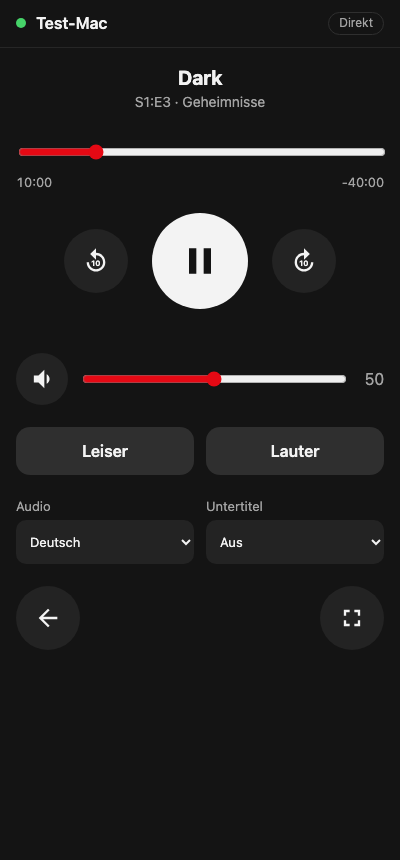
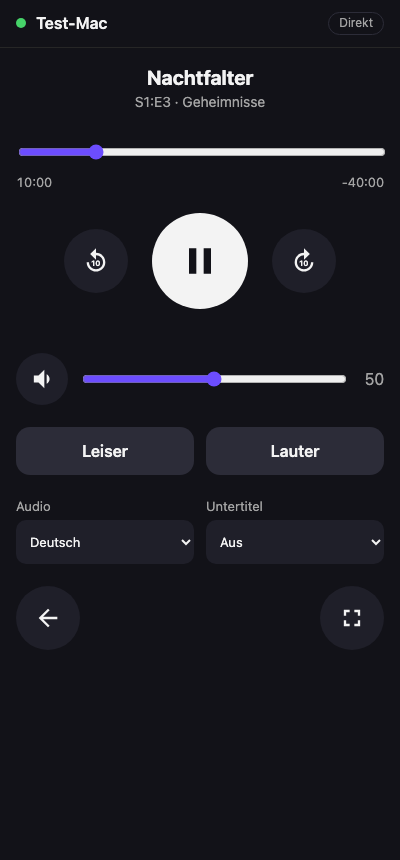
Rename to Couch Remote, own colors, privacy page, license notices, version 2.2.5
Preparation for store publishing without trademark trouble:
- Name "Couch Remote" (no "Netflix" in the product name) and a
  "not affiliated with Netflix" notice in popup, app, README, LICENSE.
- Own violet accent and a bluish background instead of Netflix red and
  black; icons regenerated. Offline dots use a separate danger red.
- Privacy page (remote/public/privacy.html, German and English) listing
  the public servers involved; linked from popup and app.
- Every build ships THIRD_PARTY_LICENSES.txt for the bundled libraries.
- LICENSE keeps the original notice and adds the current copyright.
- The fake Netflix page and screenshots use invented titles.

Changed region(s): [[0.36, 0.0605, 0.63, 0.1209], [0.21, 0.4233, 0.57, 0.4535], [0.03, 0.1512, 0.27, 0.1814]]

diff --git a/remote/public/privacy.html b/remote/public/privacy.html
@@ -1,0 +1,118 @@
+<!doctype html>
+<html lang="de">
+<head>
+    <meta charset="utf-8">
+    <meta name="viewport" content="width=device-width, initial-scale=1">
+    <title>Couch Remote – Datenschutz</title>
+    <meta name="theme-color" content="#121218">
+    <style>
+        :root { color-scheme: dark; --bg: #121218; --fg: #f3f3f3; --muted: #a3a3a3; --accent: #6c4dff; --line: #2c2c38; }
+        body { margin: 0; background: var(--bg); color: var(--fg); font: 16px/1.6 system-ui, -apple-system, 'Segoe UI', sans-serif; }
+        main { max-width: 720px; margin: 0 auto; padding: 24px 16px 48px; }
+        h1 { font-size: 28px; margin: 0 0 4px; }
+        h2 { font-size: 20px; margin: 32px 0 8px; }
+        h3 { font-size: 16px; margin: 20px 0 4px; }
+        p, li { color: #d8d8e0; }
+        .muted { color: var(--muted); font-size: 14px; }
+        a { color: #a896ff; }
+        table { width: 100%; border-collapse: collapse; font-size: 14px; }
+        th, td { text-align: left; vertical-align: top; padding: 8px; border-bottom: 1px solid var(--line); }
+        th { color: var(--muted); font-weight: 600; }
+        hr { border: 0; border-top: 1px solid var(--line); margin: 40px 0; }
+        nav a { margin-right: 16px; }
+    </style>
+</head>
+<body>
+<main>
+    <nav class="muted"><a href="#de">Deutsch</a><a href="#en">English</a></nav>
+
+    <section id="de" lang="de">
+        <h1>Datenschutz</h1>
+        <p class="muted">Couch Remote (Chrome-Extension und Handy-App) · Stand: September 2026</p>
+
+        <p>Couch Remote macht das Handy zur Fernbedienung für Netflix im Browser auf PC oder Mac. Es gibt
+        <strong>kein Konto, keinen eigenen Server, keine Werbung und kein Tracking</strong>. Der Entwickler
+        erhält keine Daten.</p>
+
+        <h2>Welche Daten verarbeitet werden</h2>
+        <h3>In der Extension (am PC)</h3>
+        <ul>
+            <li>Sie liest ausschließlich auf <code>www.netflix.com</code>, was dort angezeigt wird: Titel, Bilder-Adressen,
+            Fortschritt, Profilnamen, Wiedergabestatus (Position, Lautstärke, Ton- und Untertitelspur).</li>
+            <li>Diese Informationen gehen nur an das gekoppelte Handy – direkt oder Ende-zu-Ende verschlüsselt über
+            einen Relay (siehe unten). Sie werden nicht gespeichert und an niemanden sonst übermittelt.</li>
+            <li>Lokal gespeichert werden nur die Einstellungen: eine zufällige Geräte-ID, der Kopplungsschlüssel,
+            der Name des Rechners und gegebenenfalls eigene Serveradressen.</li>
+        </ul>
+        <h3>In der Handy-App</h3>
+        <ul>
+            <li>Lokal im Browser gespeichert werden die Kopplungen (Geräte-ID, Schlüssel, Rechnername, Serveradressen).</li>
+            <li>Der Kopplungsschlüssel steht im <code>#</code>-Teil des QR-Code-Links; dieser Teil wird von Browsern nie
+            an einen Webserver gesendet.</li>
+            <li>Bilder von Titeln lädt das Handy direkt von Netflix. Dabei gelten die
+            <a href="https://help.netflix.com/legal/privacy">Datenschutzbestimmungen von Netflix</a>.</li>
+        </ul>
+
+        <h2>Beteiligte Dienste</h2>
+        <p>Damit Handy und PC sich ohne eigenen Server finden, nutzt Couch Remote öffentliche Dienste. Diese sehen
+        technisch bedingt die IP-Adressen der Geräte, aber keine Inhalte:</p>
+        <table>
+            <tr><th>Dienst</th><th>Zweck</th><th>Was er sieht</th></tr>
+            <tr><td>PeerJS-Server (<code>0.peerjs.com</code>)</td><td>Verbindungsaufbau zwischen Handy und PC</td><td>IP-Adressen, zufällige Geräte-IDs, technische Verbindungsdaten</td></tr>
+            <tr><td>STUN-Server von Google (<code>stun.l.google.com</code>)</td><td>Ermitteln der öffentlichen Adresse für die Direktverbindung</td><td>IP-Adressen</td></tr>
+            <tr><td>TURN-Server von PeerJS (<code>*.turn.peerjs.com</code>)</td><td>Weiterleitung, falls keine Direktverbindung möglich ist</td><td>IP-Adressen; die Daten sind per WebRTC (DTLS) verschlüsselt</td></tr>
+            <tr><td>MQTT-Relay HiveMQ (<code>broker.hivemq.com</code>)</td><td>Ausweichweg in Netzen, die Direktverbindungen sperren</td><td>IP-Adressen und verschlüsselte Nachrichten (AES-GCM mit dem Kopplungsschlüssel); keine Inhalte</td></tr>
+            <tr><td>GitHub Pages</td><td>Ausliefern der Handy-App</td><td>IP-Adresse und übliche Server-Protokolldaten, siehe <a href="https://docs.github.com/de/site-policy/privacy-policies/github-general-privacy-statement">Datenschutzerklärung von GitHub</a></td></tr>
+        </table>
+        <p>Alle Server lassen sich in der Extension unter „Erweitert“ durch eigene ersetzen.</p>
+
+        <h2>Rechtsgrundlage und Rechte</h2>
+        <p>Die Verarbeitung dient allein der vom Nutzer gewünschten Funktion (Art. 6 Abs. 1 lit. b bzw. f DSGVO).
+        Da der Entwickler keine personenbezogenen Daten erhält, kann er dazu auch keine Auskunft geben; für die oben
+        genannten Dienste gelten deren Datenschutzbestimmungen. Alle lokal gespeicherten Daten verschwinden, wenn die
+        Extension entfernt bzw. die Website-Daten der Handy-App gelöscht werden.</p>
+
+        <h2>Kontakt</h2>
+        <p>Fragen und Hinweise bitte als Issue auf
+        <a href="https://github.com/MacBuchi/netflix-remote/issues">github.com/MacBuchi/netflix-remote</a>.</p>
+
+        <p class="muted">Couch Remote ist ein unabhängiges Open-Source-Projekt und nicht mit Netflix, Inc. verbunden,
+        von Netflix unterstützt oder beauftragt. Netflix ist eine Marke von Netflix, Inc.</p>
+    </section>
+
+    <hr>
+
+    <section id="en" lang="en">
+        <h1>Privacy</h1>
+        <p class="muted">Couch Remote (Chrome extension and phone app) · Last updated: September 2026</p>
+
+        <p>Couch Remote turns a phone into a remote control for Netflix in a desktop browser. There is
+        <strong>no account, no own server, no ads and no tracking</strong>. The developer receives no data.</p>
+
+        <h2>Data processed</h2>
+        <ul>
+            <li>The extension reads only what <code>www.netflix.com</code> displays (titles, image URLs, progress,
+            profile names, playback state) and sends it only to the paired phone, directly or end-to-end encrypted
+            through a relay. It is not stored or shared with anyone else.</li>
+            <li>Stored locally: a random device ID, the pairing key, the computer's name and optional custom server
+            addresses (extension); the pairings (phone app). The pairing key travels in the <code>#</code> part of the
+            QR code link, which browsers never send to a web server.</li>
+            <li>The phone loads title images directly from Netflix; Netflix's privacy statement applies.</li>
+        </ul>
+
+        <h2>Third-party services</h2>
+        <p>To connect phone and computer without an own server, Couch Remote uses public services that technically
+        see the devices' IP addresses but no content: the PeerJS server (<code>0.peerjs.com</code>, connection setup),
+        Google's STUN server (address discovery), PeerJS TURN servers (fallback forwarding, WebRTC-encrypted), the HiveMQ
+        public MQTT broker (fallback relay, messages AES-GCM encrypted with the pairing key) and GitHub Pages (hosting
+        the phone app). All servers can be replaced under “Erweitert” (advanced) in the extension.</p>
+
+        <h2>Contact</h2>
+        <p>Please open an issue on <a href="https://github.com/MacBuchi/netflix-remote/issues">github.com/MacBuchi/netflix-remote</a>.</p>
+
+        <p class="muted">Couch Remote is an independent open-source project and is not affiliated with, endorsed or
+        sponsored by Netflix, Inc. Netflix is a trademark of Netflix, Inc.</p>
+    </section>
+</main>
+</body>
+</html>

diff --git a/tests/e2e/fake-netflix.html b/tests/e2e/fake-netflix.html
@@ -15,7 +15,7 @@
         if (path.startsWith('/watch/')) {
             document.body.innerHTML = `
                 <video></video>
-                <div data-uia="video-title"><h4>Dark</h4><span>S1:E3</span><span>Geheimnisse</span></div>`;
+                <div data-uia="video-title"><h4>Nachtfalter</h4><span>S1:E3</span><span>Geheimnisse</span></div>`;
         } else if (path.startsWith('/browse') && !sessionStorage.getItem('profile') && !params.has('jbv')) {
             document.body.innerHTML = `<ul class="choose-profile">
                 ${['Alex', 'Kinder'].map((n) => `<li><a class="profile-link" data-uia="profile-link" href="#"><img src="${img(n)}"><span class="profile-name">${n}</span></a></li>`).join('')}
@@ -47,27 +47,27 @@
                     header +
                     // Billboard: full-width recommendation with title logo; Netflix plays its trailer here.
                     `<div class="billboard-row"><div class="billboard billboard-pane">
-                        <div class="hero-image-wrapper"><img class="hero static-image" src="${img('The Crown', '80025678')}&hero=1"></div>
-                        <div class="billboard-title"><img class="title-logo" alt="The Crown" src="${img('The Crown', '80025678')}&logo=1"></div>
-                        <div class="billboard-description"><div class="synopsis">Die Regentschaft von Königin Elisabeth II. – Intrigen, Liebe und Politik.</div></div>
+                        <div class="hero-image-wrapper"><img class="hero static-image" src="${img('Hafenlichter', '80025678')}&hero=1"></div>
+                        <div class="billboard-title"><img class="title-logo" alt="Hafenlichter" src="${img('Hafenlichter', '80025678')}&logo=1"></div>
+                        <div class="billboard-description"><div class="synopsis">Eine Hafenstadt, drei Familien und ein Geheimnis, das alles verändert.</div></div>
                         <div class="billboard-links"><a class="playLink" href="/watch/80025678?trackId=1"><button data-uia="play-button">Abspielen</button></a><button data-uia="billboard-more-info">Weitere Infos</button></div>
                     </div></div>` +
-                    row('Weiterschauen', [['80100172', 'Dark', 35], ['80057281', 'Stranger Things', 70]]) +
-                    row(path.includes('genre') ? 'Serien-Tipps' : 'Derzeit beliebt', [['81040344', 'Squid Game']]) +
+                    row('Weiterschauen', [['80100172', 'Nachtfalter', 35], ['80057281', 'Sternenstaub', 70]]) +
+                    row(path.includes('genre') ? 'Serien-Tipps' : 'Derzeit beliebt', [['81040344', 'Rotes Licht']]) +
                     [1, 2, 3, 4, 5].map((r) => row(`Reihe ${r}`, filler(r))).join('');
                 if (params.has('jbv')) {
                     document.body.insertAdjacentHTML('beforeend', `
                         <div class="previewModal--container detail-modal" data-uia="modal-motion-container-DETAIL_MODAL">
-                            <img class="previewModal--player-titleTreatment-logo" alt="Dark" src="${img('Dark')}">
+                            <img class="previewModal--player-titleTreatment-logo" alt="Nachtfalter" src="${img('Nachtfalter')}">
                             <a data-uia="play-button" href="/watch/${params.get('jbv')}">Abspielen</a>
-                            <p class="preview-modal-synopsis">Ein Kind verschwindet.</p>
+                            <p class="preview-modal-synopsis">Im Wald verschwindet ein Kind.</p>
                             <button data-uia="dropdown-toggle">Staffel 1</button>
                             ${['Geheimnisse', 'Lügen', 'Vergangenheit'].map((t, i) => `
                                 <div class="titleCardList--container episode-item" data-uia="titleCard--container">
                                     <a href="/watch/9000${i + 1}"><img src="${img('Folge ' + (i + 1))}"></a>
                                     <div class="titleCard-title_index">${i + 1}</div>
                                     <div class="titleCard-title_text">${t}</div>
-                                    <p class="titleCard-synopsis">Folge ${i + 1} von Dark.</p>
+                                    <p class="titleCard-synopsis">Folge ${i + 1} von Nachtfalter.</p>
                                 </div>`).join('')}
                         </div>`);
                 }

diff --git a/extension/static/popup.html b/extension/static/popup.html
@@ -4,13 +4,13 @@
     <meta charset="utf-8">
     <title>Couch Remote</title>
     <style>
-        :root { color-scheme: dark; --bg: #141414; --fg: #f3f3f3; --muted: #9a9a9a; --accent: #e50914; --line: #2c2c2c; }
+        :root { color-scheme: dark; --bg: #121218; --fg: #f3f3f3; --muted: #9a9a9a; --accent: #6c4dff; --danger: #e5484d; --line: #2c2c2c; }
         * { box-sizing: border-box; }
         body { margin: 0; width: 320px; padding: 16px; background: var(--bg); color: var(--fg); font: 14px/1.4 system-ui, sans-serif; }
         h1 { font-size: 16px; margin: 0 0 12px; display: flex; align-items: center; gap: 8px; }
         .dot { width: 8px; height: 8px; border-radius: 50%; background: var(--muted); }
         .dot.online { background: #46d369; }
-        .dot.offline { background: var(--accent); }
+        .dot.offline { background: var(--danger); }
         #qr { display: block; margin: 0 auto 8px; background: #fff; border-radius: 8px; padding: 8px; }
         p { margin: 8px 0; color: var(--muted); }
         label { display: block; margin: 12px 0 4px; color: var(--muted); font-size: 12px; }
@@ -22,6 +22,8 @@
         summary { cursor: pointer; color: var(--muted); }
         #devices { color: var(--fg); }
         .small { font-size: 12px; }
+        .legal { margin-top: 16px; color: var(--muted); }
+        .legal a { color: #a896ff; }
     </style>
 </head>
 <body>
@@ -50,6 +52,10 @@
         <input id="relay" placeholder="wss://broker.hivemq.com:8884/mqtt">
         <div class="row"><button id="save" class="primary">Speichern</button></div>
     </details>
+    <p class="small legal">
+        <a href="https://macbuchi.github.io/netflix-remote/privacy.html" target="_blank" rel="noopener">Datenschutz</a> ·
+        Unabhängiges Projekt, nicht mit Netflix verbunden.
+    </p>
     <script src="popup.js"></script>
 </body>
 </html>

diff --git a/remote/src/style.css b/remote/src/style.css
@@ -1,11 +1,12 @@
 :root {
     color-scheme: dark;
-    --bg: #141414;
-    --surface: #232323;
-    --surface-2: #2f2f2f;
+    --bg: #121218;
+    --surface: #1f1f29;
+    --surface-2: #2c2c38;
     --fg: #f3f3f3;
     --muted: #a3a3a3;
-    --accent: #e50914;
+    --accent: #6c4dff;
+    --danger: #e5484d;
     --ok: #46d369;
     --warn: #f5a623;
     --radius: 14px;
@@ -37,7 +38,7 @@ header select { background: transparent; color: var(--fg); border: 0; font: inhe
 
 .dot { width: 10px; height: 10px; border-radius: 50%; background: var(--warn); flex: none; }
 .dot.connected { background: var(--ok); }
-.dot.pc-offline, .dot.blocked, .dot.offline, .dot.auth-failed { background: var(--accent); }
+.dot.pc-offline, .dot.blocked, .dot.offline, .dot.auth-failed { background: var(--danger); }
 
 main { flex: 1; display: flex; flex-direction: column; padding: 16px; padding-bottom: max(16px, env(safe-area-inset-bottom)); }
 .center { flex: 1; display: flex; flex-direction: column; align-items: center; justify-content: center; text-align: center; gap: 12px; }
@@ -45,6 +46,8 @@ h1 { margin: 0 0 8px; font-size: 28px; }
 h2 { margin: 0; font-size: 20px; }
 p { margin: 0; }
 .muted { color: var(--muted); font-size: 14px; }
+.legal { font-size: 12px; margin-top: 24px; }
+.legal a { color: #a896ff; }
 
 .steps { text-align: left; max-width: 420px; padding-left: 20px; display: grid; gap: 10px; }
 

diff --git a/remote/src/main.tsx b/remote/src/main.tsx
@@ -173,11 +173,15 @@ function Onboarding() {
             <main class="center">
                 <h1>Couch Remote</h1>
                 <ol class="steps">
-                    <li>Extension „Couch Remote für Netflix“ in Chrome auf dem PC/Mac installieren.</li>
+                    <li>Extension „Couch Remote“ in Chrome auf dem PC/Mac installieren.</li>
                     <li>In Chrome auf das Extension-Symbol klicken – ein QR-Code erscheint.</li>
                     <li>QR-Code mit der Handy-Kamera scannen. Fertig – ab dann verbindet sich diese App automatisch.</li>
                 </ol>
                 <p class="muted">Tipp: Im Browser-Menü „Zum Startbildschirm hinzufügen“ wählen, dann startet die Fernbedienung wie eine App.</p>
+                <p class="muted legal">
+                    <a href={`${import.meta.env.BASE_URL}privacy.html`}>Datenschutz</a> · Unabhängiges Projekt, nicht mit Netflix
+                    verbunden.
+                </p>
             </main>
         </div>
     );

diff --git a/remote/index.html b/remote/index.html
@@ -3,8 +3,8 @@
 <head>
     <meta charset="utf-8">
     <meta name="viewport" content="width=device-width, initial-scale=1, viewport-fit=cover">
-    <meta name="theme-color" content="#141414">
-    <meta name="description" content="Fernbedienung für Netflix im Chrome auf PC/Mac">
+    <meta name="theme-color" content="#121218">
+    <meta name="description" content="Das Handy als Fernbedienung für Streaming im Chrome auf PC/Mac. Funktioniert mit Netflix; nicht mit Netflix verbunden.">
     <title>Couch Remote</title>
     <link rel="manifest" href="./manifest.webmanifest">
     <link rel="icon" href="./icon-192.png">

diff --git a/README.md b/README.md
@@ -1,8 +1,11 @@
-# Couch Remote für Netflix
+# Couch Remote
 
 Netflix läuft in Chrome auf PC oder Mac, das Android-Handy ist die Fernbedienung – für den Player
 und für die Auswahl von Filmen und Serien. Nur eine Chrome-Extension und eine Web-App, kein Konto,
 kein eigener Server.
+
+> Couch Remote ist ein unabhängiges Open-Source-Projekt und nicht mit Netflix, Inc. verbunden,
+> von Netflix unterstützt oder beauftragt. Netflix ist eine Marke von Netflix, Inc.
 
 <p align="center">
   <img src="docs/img/remote-catalog.png" width="240" alt="Film-Browser auf dem Handy: Reihen mit Bildern und Fortschritt, aktiver Bereich rot markiert">
@@ -158,6 +161,17 @@ mit angepasst. Für die Screenshots zeichnet der Test Platzhalter-Poster statt d
 - **Release** – legt Tag `vX.Y.Z` und ein GitHub-Release mit der Extension-ZIP an, wenn die Version neu ist.
 - **Deploy phone app** – baut die Handy-App und veröffentlicht sie auf GitHub Pages
   (einmalig einzurichten: Repo → Settings → Pages → Source: **GitHub Actions**).
+
+## Rechtliches
+
+- **Datenschutz:** [macbuchi.github.io/netflix-remote/privacy.html](https://macbuchi.github.io/netflix-remote/privacy.html)
+  (Quelle: `remote/public/privacy.html`) – kein Konto, kein Tracking, der Entwickler erhält keine Daten;
+  dort sind die beteiligten öffentlichen Server aufgeführt.
+- **Lizenz:** MIT, siehe [LICENSE.md](LICENSE.md). Jeder Build enthält `THIRD_PARTY_LICENSES.txt` mit den
+  Lizenzen der gebündelten Bibliotheken (erzeugt von `scripts/third-party-licenses.mjs`).
+- **Name und Gestaltung:** bewusst ohne „Netflix“ im Namen und ohne Netflix-Farben; Netflix wird nur genannt,
+  um zu beschreiben, womit die Extension funktioniert. Die Screenshots zeigen erfundene Titel.
+- Die Extension überträgt kein Video und umgeht keinen Kopierschutz; sie steuert nur die eigene Sitzung.
 
 Ursprünglich ein Fork von [butttons/netflix-remote](https://github.com/butttons/netflix-remote) (MIT).
 Die Planung und offene Punkte stehen in [PLAN.md](PLAN.md).

diff --git a/PLAN.md b/PLAN.md
@@ -5,7 +5,7 @@ steuert nicht nur den Player (Play/Pause, Spulen, Lautstärke, Untertitel …), 
 auch den **Katalog**: Zeilen durchblättern, Titel ansehen, suchen, Profil wählen und
 einen Film/eine Folge starten.
 
-> **Stand (Version 2.2.4):** Phasen 0–3 sind umgesetzt und mit echtem Netflix getestet (Kopplung,
+> **Stand (Version 2.2.5):** Phasen 0–3 sind umgesetzt und mit echtem Netflix getestet (Kopplung,
 > Relay im Hotel-WLAN, Player, Film-Browser mit Bildern, Vorschau, Suche und Bereichen). Offen sind
 > nur noch optionale Punkte, siehe [Abschnitt 5](#5-umsetzung-in-phasen). Wo die Umsetzung vom
 > ursprünglichen Plan abweicht, ist es in den Abschnitten vermerkt.
@@ -258,8 +258,9 @@ Jede Anfrage bekommt eine Antwort (`ok`/`error`), die App zeigt Fehler verständ
 
 **Offen / nächste Schritte:**
 - Optional: D-Pad-Modus als Fallback (Phase 4).
-- Chrome Web Store: Datenschutzseite, neutraler Name ohne „Netflix“ als Markenname, Store-Upload im
-  Release-Workflow.
+- Chrome Web Store: Voraussetzungen erledigt (neutraler Name „Couch Remote“, eigene Farben, Datenschutzseite,
+  Lizenzhinweise, Hinweis „nicht mit Netflix verbunden“). Offen: Entwicklerkonto, Store-Eintrag, Store-Upload
+  im Release-Workflow. Opera-Nutzer können dann über „Install Chrome Extensions“ installieren.
 - Beobachten: Selektoren für den Detaildialog (Staffelwahl) sind am wenigsten erprobt; bei Problemen
   „Diagnose anzeigen“ nutzen und `extension/src/netflix/selectors.ts` anpassen.
 

diff --git a/LICENSE.md b/LICENSE.md
@@ -1,6 +1,7 @@
 MIT License
 
-Copyright (c) [2019] [Yash Baheti]
+Copyright (c) 2026 MacBuchi
+Copyright (c) 2019 Yash Baheti (original netflix-remote)
 
 Permission is hereby granted, free of charge, to any person obtaining a copy
 of this software and associated documentation files (the "Software"), to deal
@@ -19,3 +20,9 @@ AUTHORS OR COPYRIGHT HOLDERS BE LIABLE FOR ANY CLAIM, DAMAGES OR OTHER
 LIABILITY, WHETHER IN AN ACTION OF CONTRACT, TORT OR OTHERWISE, ARISING FROM,
 OUT OF OR IN CONNECTION WITH THE SOFTWARE OR THE USE OR OTHER DEALINGS IN THE
 SOFTWARE.
+
+---
+
+Couch Remote is an independent project and is not affiliated with, endorsed or sponsored by
+Netflix, Inc. Netflix is a trademark of Netflix, Inc. Third-party components and their licenses
+are listed in THIRD_PARTY_LICENSES.txt, which every build contains.
